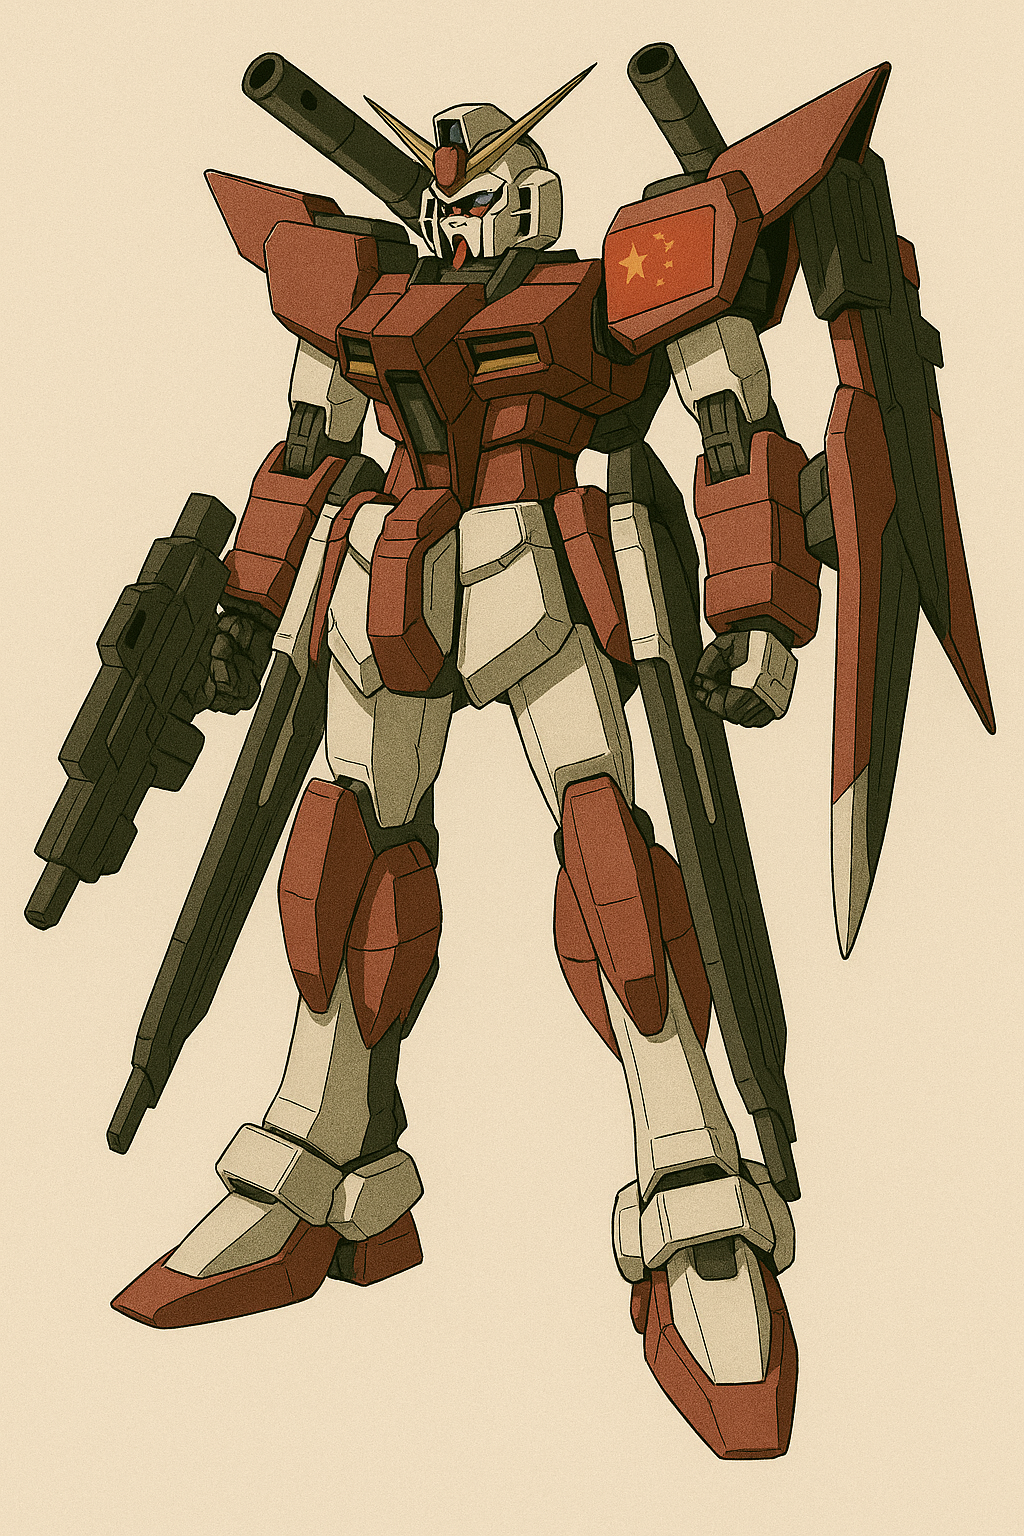
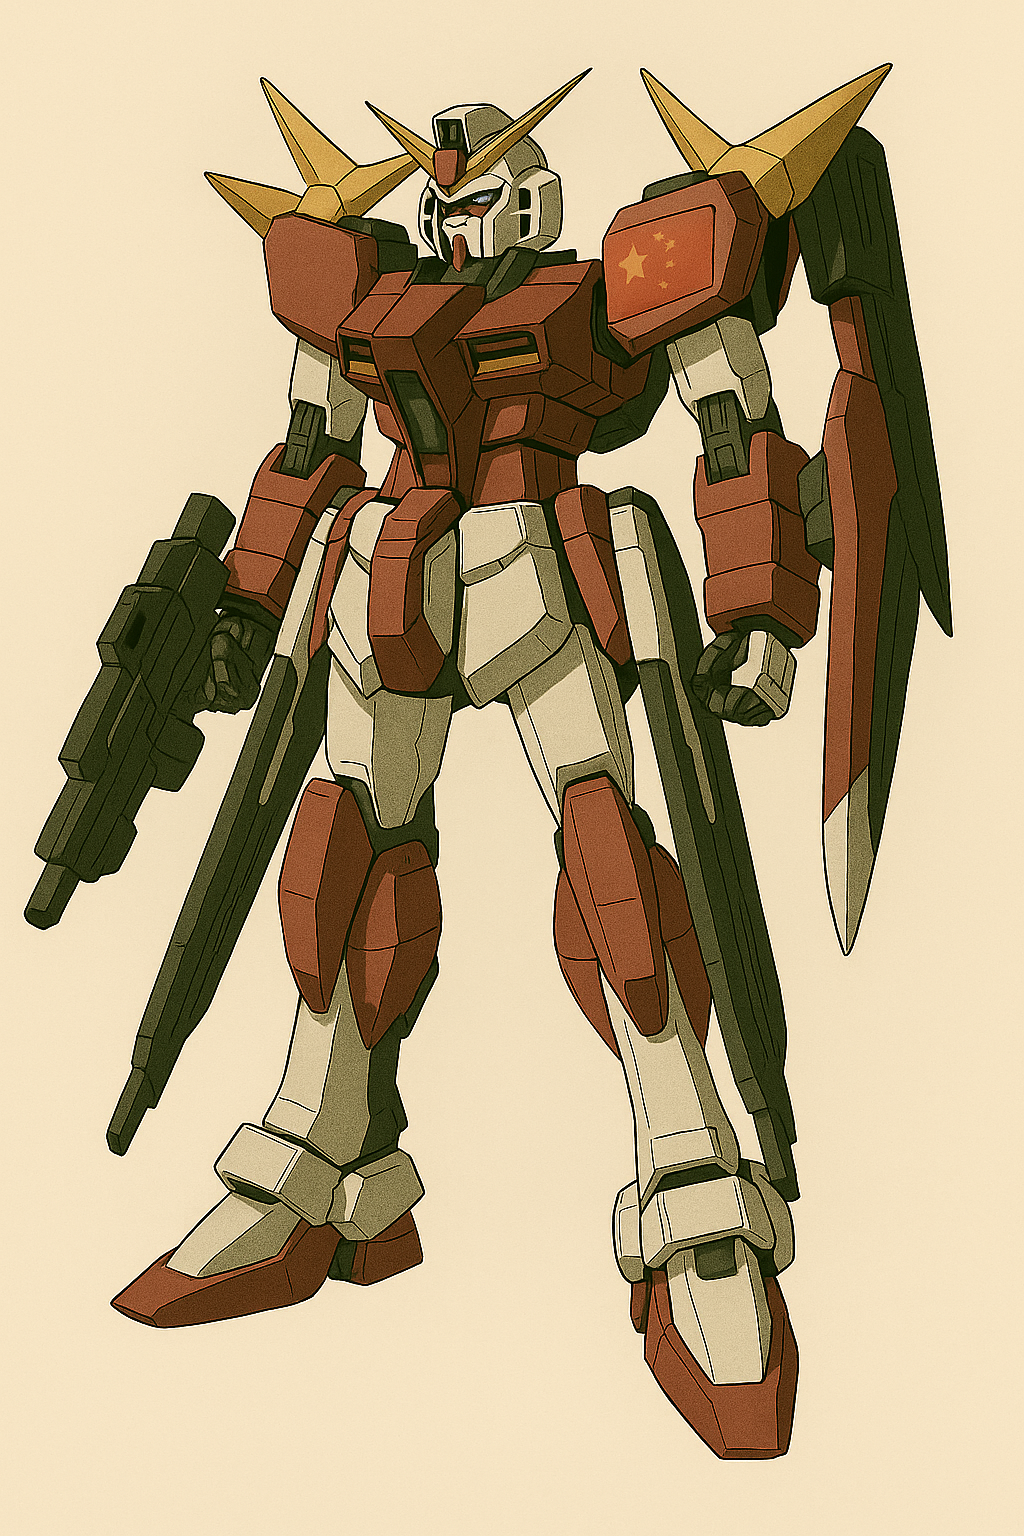
Small fix

diff --git a/Vol.2/chapter10.md b/Vol.2/chapter10.md
@@ -11,11 +11,11 @@
 
 <img src="./illustrations/43.png" width=60%/>
 
-福建平潭，沈柏言正操作着刚刚搭建完的机体【刑天】，手里举着早上和顾崇渊一起设计组装完毕的超远距离精准高能粒子制导炮，【赤烬】，炮管正冒着烟。"实测有效距离，约68海里"，沈柏言想起了哥哥生前和自己一起打篮球、一起成长、一起欢笑的日子，默默对自己说道，"哥哥，这只是开始，我要为了你把台湾岛扫射三遍......"突然，赤烬本身承受不住如此高能的光束流，砰地一声巨响，平地炸开。还好沈柏言早就感觉到了不对劲，在爆炸前就把炮管抛下往回飞，才得以没有受伤。指挥室的顾崇渊很高兴，"咱们成功了！接下去只要调整炮身的结构和炮管材料就行。两天左右能成，我有把握！""现在试验完成，全军撤退！"林砚发布了命令，沈柏言则一言不发地随着护航舰队，往格纳库飞去。回到台海战场前线，唐海瞬间一激灵，"沈柏言他们，成功了？"而台军那边自然也是乱作一团，不知道这神兵天降般的一击从何而来，军舰、坦克、战机纷纷往回撤，而白绪寒则已经有些失控地狂按电磁盾发生器，"这家伙在哪里？这家伙在哪里？已经又要来了吗？？"橘子悠则强行让自己冷静下来，"小悠别怕！我们刚展开过电磁盾，现在在冷却！我估计他们短时间内不会再进攻，不然早就来了！"而正在两姐妹对话时，全然忘记了虎视眈眈的唐海。"糟了！"看到盘古II式向自己冲来，白绪寒慌不择路下打开了导弹舱，做了全弹射击，八十多枚天弓导弹鱼贯射去。而唐海同样用尽了主武器的火药，做了一次全弹齐发，拦截住了所有的天弓导弹，并在火幕的掩护下，冲到了援星II式面前。他展开了左臂上的剑和右腿上的腿刀，用难以置信的速度砍掉了援星的五门主炮，又用头部机关炮仅剩的几发子弹，精准地打掉了天弓导弹的弹舱。在姐妹俩还没反应过来的时候，并瞬间飞到援星II式的背上。"呀！！！"他用尽全机的力气破坏了所有的浮游炮管，还掀开了驾驶舱的一角，两姐妹暴露了出来。现在，整台援星II式就像一只孤零零的，悬浮在天上的大铁球。唐海飞到援星II式之上，在白绪寒和橘子悠看来，犹如神明般地俯视着她们。"现在，你们快投降吧！我不想杀人！"唐海最后一次发出撕心裂肺的警告。而两姐妹则是冷冷地看着他，齐齐对着他竖起了中指。
+福建平潭，沈柏言正操作着刚刚搭建完的机体【刑天】，手里举着早上和顾崇渊一起设计组装完毕的超远距离精准高能粒子制导炮，【赤烬】，炮管正冒着烟。"实测有效距离，约68海里"，沈柏言想起了哥哥生前和自己一起打篮球、一起成长、一起欢笑的日子，默默对自己说道，"哥哥，这只是开始，我要为了你把台湾岛扫射三遍......"突然，赤烬本身承受不住如此高能的光束流，砰地一声巨响，平地炸开。还好沈柏言早就感觉到了不对劲，在爆炸前就把炮管抛下往回飞，才得以没有受伤。指挥室的顾崇渊很高兴，"咱们成功了！接下去只要调整炮身的结构和炮管材料就行。两天左右能成，我有把握！""现在试验完成，全军撤退！"林砚发布了命令，沈柏言则一言不发地随着护航舰队，往格纳库飞去。回到台海战场前线，唐海瞬间一激灵，"沈柏言他们，成功了？"而台军那边自然也是乱作一团，不知道这神兵天降般的一击从何而来，军舰、坦克、战机纷纷往回撤，而白绪寒则已经有些失控地狂按电磁盾发生器，"这家伙在哪里？这家伙在哪里？已经又要来了吗？？"橘子悠则强行让自己冷静下来，"小悠别怕！我们刚展开过电磁盾，现在在冷却！我估计他们短时间内不会再进攻，不然早就来了！"而正在两姐妹对话时，全然忘记了虎视眈眈的唐海。"糟了！"看到盘古II式向自己冲来，白绪寒慌不择路下打开了导弹舱，做了全弹射击，八十多枚天弓导弹鱼贯射去。而唐海同样用尽了主武器的火药，做了一次全弹齐发，拦截住了大部分天弓导弹，为自己开出了一条通路。在火幕的掩护下，他冲到了援星II式面前。"你完蛋了！"就在此时，白绪寒咬牙展开了刚刚冷却完毕的电磁盾，企图用高压电流击落正在冲向自己的盘古II式。哪知，迎面而来的不是盘古II式本体，而是两枚高速旋转的回旋镖。只听到"砰"的一声，凭借着超高的动能，回旋镖穿过了电磁盾，精准地击中了电磁盾发生器。"啊！！"橘子悠和白绪寒同时被巨大的冲击离震到了。而唐海则是抓住电磁盾失效的瞬间，展开了盘古II式左臂上的剑和右腿上的腿刀，用难以置信的速度砍掉了援星的五门主炮，又用头部机关炮仅剩的几发子弹，精准地打掉了天弓导弹的弹舱。在姐妹俩还没反应过来的时候，并瞬间飞到援星II式的背上。"呀！！！"他用尽全机的力气破坏了所有的浮游炮管，还掀开了驾驶舱的一角，两姐妹暴露了出来。现在，整台援星II式就像一只孤零零的，悬浮在天上的大铁球。唐海飞到援星II式之上，在白绪寒和橘子悠看来，犹如神明般地俯视着她们。"现在，你们快投降吧！我不想杀人！"唐海最后一次发出撕心裂肺的警告。而两姐妹则是冷冷地看着他，齐齐对着他竖起了中指。
 
 唐海有些怒不可遏，举起左臂上的刀。他努力了，他真的努力了。本来就不想上战场，本来就不想蹚这滩浑水的他，一路上忍让、克制，甚至到了和敌人拔刀相向的时候，也尽可能地能不杀就不杀，能劝降就劝降。他甚至把对体制的不信任、对战争的厌恶，统统压在心底，只为了保住一点人样。可是，这一切都被姐妹俩的一个中指给彻底否定了。那一刻，唐海心里真的炸了。他差点喊出来："我他妈到底图啥？？图救你们？图做一个不那么坏的人？图留一条你们活路？可是你们从来没把我当人！那就别怪我也不做人了！"他清晰地感觉到，这是他十五年来，第一次理智不再受到自己的支配。他，终于觉得自己有些累了。因此，他举起了刀。
 
-唐海正准备做最后的俯冲，但这一刻，他却突然发现机体动不了了！他大惊失色，试图通过加大精神力调整盘古的姿势，没什么用，机体纹丝不动。"动啊，盘古！为什么不动？"唐海罕见地惊慌地怒吼道。这时候，他猛然想起了季思澜警告，用于制造神经网络的仿生丝线和金属之间排异性很大。"难道，因为机体长期作战，热量过载，导致保护仿生丝线的保护膜熔掉了？"还来不及多想，似乎整台机体的操作系统崩溃，盘古II式开始下坠。而此时此刻，姐妹俩下了决心，她们要用整台援星本身，冲向唐海，同归于尽！如命运般的，电磁盾冷却完毕。白绪寒最后一次展开电磁盾，加足马力，配合着橘子悠的精神力，一起冲向盘古II式。就在两机快相撞时，两姐妹放弃了控制台，冲出来紧紧地拥住了对方，深情地吻在了一起。"这样，我们终于能永远属于彼此了......"而唐海保持了最后一丝理智，他按下了弹出全部模块化核能包的按钮，还好，还可以作用。这是他为了防止可能的物理冲击而导致的核爆所留下的后手，没想到用上了。同时，他按下了弹射椅的按钮，跳伞逃生。"砰！！！"两台MB在空中撞到了一起，发出巨响。虽然核爆成功避免，但爆炸的冲击波还是把唐海冲晕了过去。他随着降落伞，跌跌撞撞地砸向海面。
+唐海正准备做最后的俯冲，但这一刻，他却突然发现机体动不了了！他大惊失色，试图通过加大精神力调整盘古的姿势，没什么用，机体纹丝不动。"动啊，盘古！为什么不动？"唐海罕见地惊慌地怒吼道。这时候，他猛然想起了季思澜警告，用于制造神经网络的仿生丝线和金属之间排异性很大。"难道，因为机体长期作战，热量过载，导致保护仿生丝线的保护膜熔掉了？"还来不及多想，似乎整台机体的操作系统崩溃，盘古II式开始下坠。而此时此刻，姐妹俩下了决心，她们要用整台援星本身，冲向唐海，同归于尽！白绪寒最后一次看了一眼橘子悠，二人对视了一下，坚定地点了点头。白绪寒加足马力，配合着橘子悠的精神力调整方向，驾驶着残破的援星II式，直奔着冲向盘古II式。就在两机快相撞时，两姐妹放弃了控制台，冲出来紧紧地拥住了对方，深情地吻在了一起。"这样，我们终于能永远属于彼此了......"而唐海保持了最后一丝理智，他按下了弹出全部模块化核能包的按钮，还好，还可以作用。这是他为了防止可能的物理冲击而导致的核爆所留下的后手，没想到用上了。同时，他按下了弹射椅的按钮，跳伞逃生。"砰！！！"两台MB在空中撞到了一起，发出巨响。虽然核爆成功避免，但爆炸的冲击波还是把唐海冲晕了过去。他随着降落伞，跌跌撞撞地砸向海面。
 
 <img src="./illustrations/47.png" width=60%/>
 

diff --git a/Vol.2/chapter09.md b/Vol.2/chapter09.md
@@ -1,7 +1,7 @@
 ## 第九章：知己
 第二天，唐海一早就来到了格纳库。他上午依旧帮助协调和安装能源模块，而他发现这台机体的设计师似乎特别懂他心中的战斗美学，为了把盘古II式的机动性提高到极限，在四肢，两腰和主推进器这里都留下了大小不一的能源包嵌入口。而核动力反应堆一旦装载了核燃料，全功率燃烧的周期是一周年，几乎可以被视作是永久动力。同时，设计那么多能源口的另一个原因是，如果一个发动机过载，那即使能源本身没有用尽，能源包也无法继续给发动机功能，不然有爆炸的危险。而有整整七个核能源包备用的前提下，盘古II式可以说是当前战场上最优秀的侦察机，可以以超高速和高度灵活的姿势在战场上进出自如；也可以是永不停歇的恐怖杀器，人肉战术和拖延战术在它的面前犹如儿戏，成为敌人心中挥之不去的，最可怕的那个噩梦。
 
-随着安装进度的不断推进，盘古II式也愈加完整地出现在了唐海的面前，整体基调从试验机的蓝紫色改为了象征着中国的红色，而由于精神力感应装置的加入，许多笨重的大型电信号传感器被拆除，整台机体的外观被进一步改进为流线型机身，如烈焰中锻造的雕塑，锋芒内敛却蕴藏着爆发的力量，仿佛一道凝固的风，在沉默中孕育着破晓的疾速。看着这台和自己有千丝万缕的机体，唐海被勾起一种复杂的情感。"好久不见了，老朋友......"他喃喃说道。下午之前安装就彻底完成了，而唐海决定在立刻试驾一下。随着控制台的倒计时结束，格纳库顶上的暗门缓缓打开。唐海戴上连满导线的头盔，一脚踩下引擎连接器，盘古II式犹如史前那开天劈地的巨人，直往天空插去。机体的机动性和速度都比想象中还要好，在唐海义肢上的感应器的加持下，操作起来感觉像是操作自己的手脚那样自如。唐海往深山里飞去，正好路过一大片樟树，机体的翅膀擦过树顶，刮下不少树叶，犹如十五年前他从柳京塔跳上盘古时，直卧着飞行的机体的主喷射器刮过平壤的柳树那样。深山里的试验进行了40多分钟，唐海试验过了各种姿势，预想了无数种遇敌的可能性，都被盘古II式绝对的机动性给压制住了。为了不轻易打草惊蛇，他没有试验火力，但他实在没理由相信，火控系统会运作得不好。把机体交还给整备班的工程师时，唐海坐着升降梯从驾驶舱下来。他抬头看了看盘古II式的头部，一如一尊面无表情的杀神。"真的要用这么恐怖的东西去杀人吗......？"唐海不由自主地想着这个问题。从格纳库出来时很早，才下午3点半，唐海决定回实验室看看沈柏言怎么样了。
+随着安装进度的不断推进，盘古II式也愈加完整地出现在了唐海的面前，整体基调从试验机的蓝紫色改为了象征着中国的红色，而由于精神力感应装置的加入，许多笨重的大型电信号传感器被拆除，整台机体的外观被进一步改进为流线型机身，如烈焰中锻造的雕塑，锋芒内敛却蕴藏着爆发的力量，仿佛一道凝固的风，在沉默中孕育着破晓的疾速。唯一的变化，是按照唐海的要求，背上的两门加特林炮被移除了，而肩上安装了一对回旋镖，以备不时之需。看着这台和自己有千丝万缕的机体，唐海被勾起一种复杂的情感。"好久不见了，老朋友......"他喃喃说道。下午之前安装就彻底完成了，而唐海决定在立刻试驾一下。随着控制台的倒计时结束，格纳库顶上的暗门缓缓打开。唐海戴上连满导线的头盔，一脚踩下引擎连接器，盘古II式犹如史前那开天劈地的巨人，直往天空插去。机体的机动性和速度都比想象中还要好，在唐海义肢上的感应器的加持下，操作起来感觉像是操作自己的手脚那样自如。唐海往深山里飞去，正好路过一大片樟树，机体的翅膀擦过树顶，刮下不少树叶，犹如十五年前他从柳京塔跳上盘古时，直卧着飞行的机体的主喷射器刮过平壤的柳树那样。深山里的试验进行了40多分钟，唐海试验过了各种姿势，预想了无数种遇敌的可能性，都被盘古II式绝对的机动性给压制住了。为了不轻易打草惊蛇，他没有试验火力，但他实在没理由相信，火控系统会运作得不好。把机体交还给整备班的工程师时，唐海坐着升降梯从驾驶舱下来。他抬头看了看盘古II式的头部，一如一尊面无表情的杀神。"真的要用这么恐怖的东西去杀人吗......？"唐海不由自主地想着这个问题。从格纳库出来时很早，才下午3点半，唐海决定回实验室看看沈柏言怎么样了。
 
 回到实验室时，唐海大吃一惊。实验室里的景象和他几天前看到的一模一样，散乱的泡面盒和能量饮料罐，永远都运行不完的高能计算机似乎在发出无声的抗议。桌上的泡面盒子里还有些汤，表面上浮着一层蛆。唐海心里顿感不妙，几乎是一路狂奔地冲向高能物理实验室。到了三楼，他除了听到和上次一样的电流和爆炸的声音外，还听到几声断断续续的嘶哑的哀嚎，"为什么！为什么就是打不准！！！卧槽尼玛勒戈壁啊，到底问题出在哪儿啊！！！！"门口还聚集着几个保安，其中一个还拿着一瓶压缩空气枪。唐海冲了过去，"怎么回事！"保安转过头来说，"你是老师吗？赶紧来劝劝这里面的学生吧，他整整三天没出来了，没日没夜地在搞实验，还锁门不让人进！""是啊，"另一个保安接上说，"听这里工作的老师说，这个实验室的装置非常危险，在里面呆那么久，别说这个人，一不小心整栋楼都会被扬了！"唐海赶紧抢过拿瓶压缩空气，把喷嘴对着门锁。一个小保安赶紧想上前阻拦，"卧槽你谁啊？你真把这儿强行破坏了，谁负责啊？！"唐海猛地把他往后推倒，"你们都离得远点！这里很危险！以及老子是环境学院唐海！"砰的一声，门锁被炸开了，唐海一脚踹开实验室大门，就看到了已经狼狈得不成人样的沈柏言。"你给我出来！"唐海大吼一声，一个箭步冲过去，像拎着小鸡一样地把沈柏言往门口拎去，同时不忘通过电门切断了实验室的电源，整个实验室这才安静了下来。没有了电火花四溅的实验室，看起来就像一地狼藉的废墟，犹如台清那个被轰倒的宿舍楼。
 
